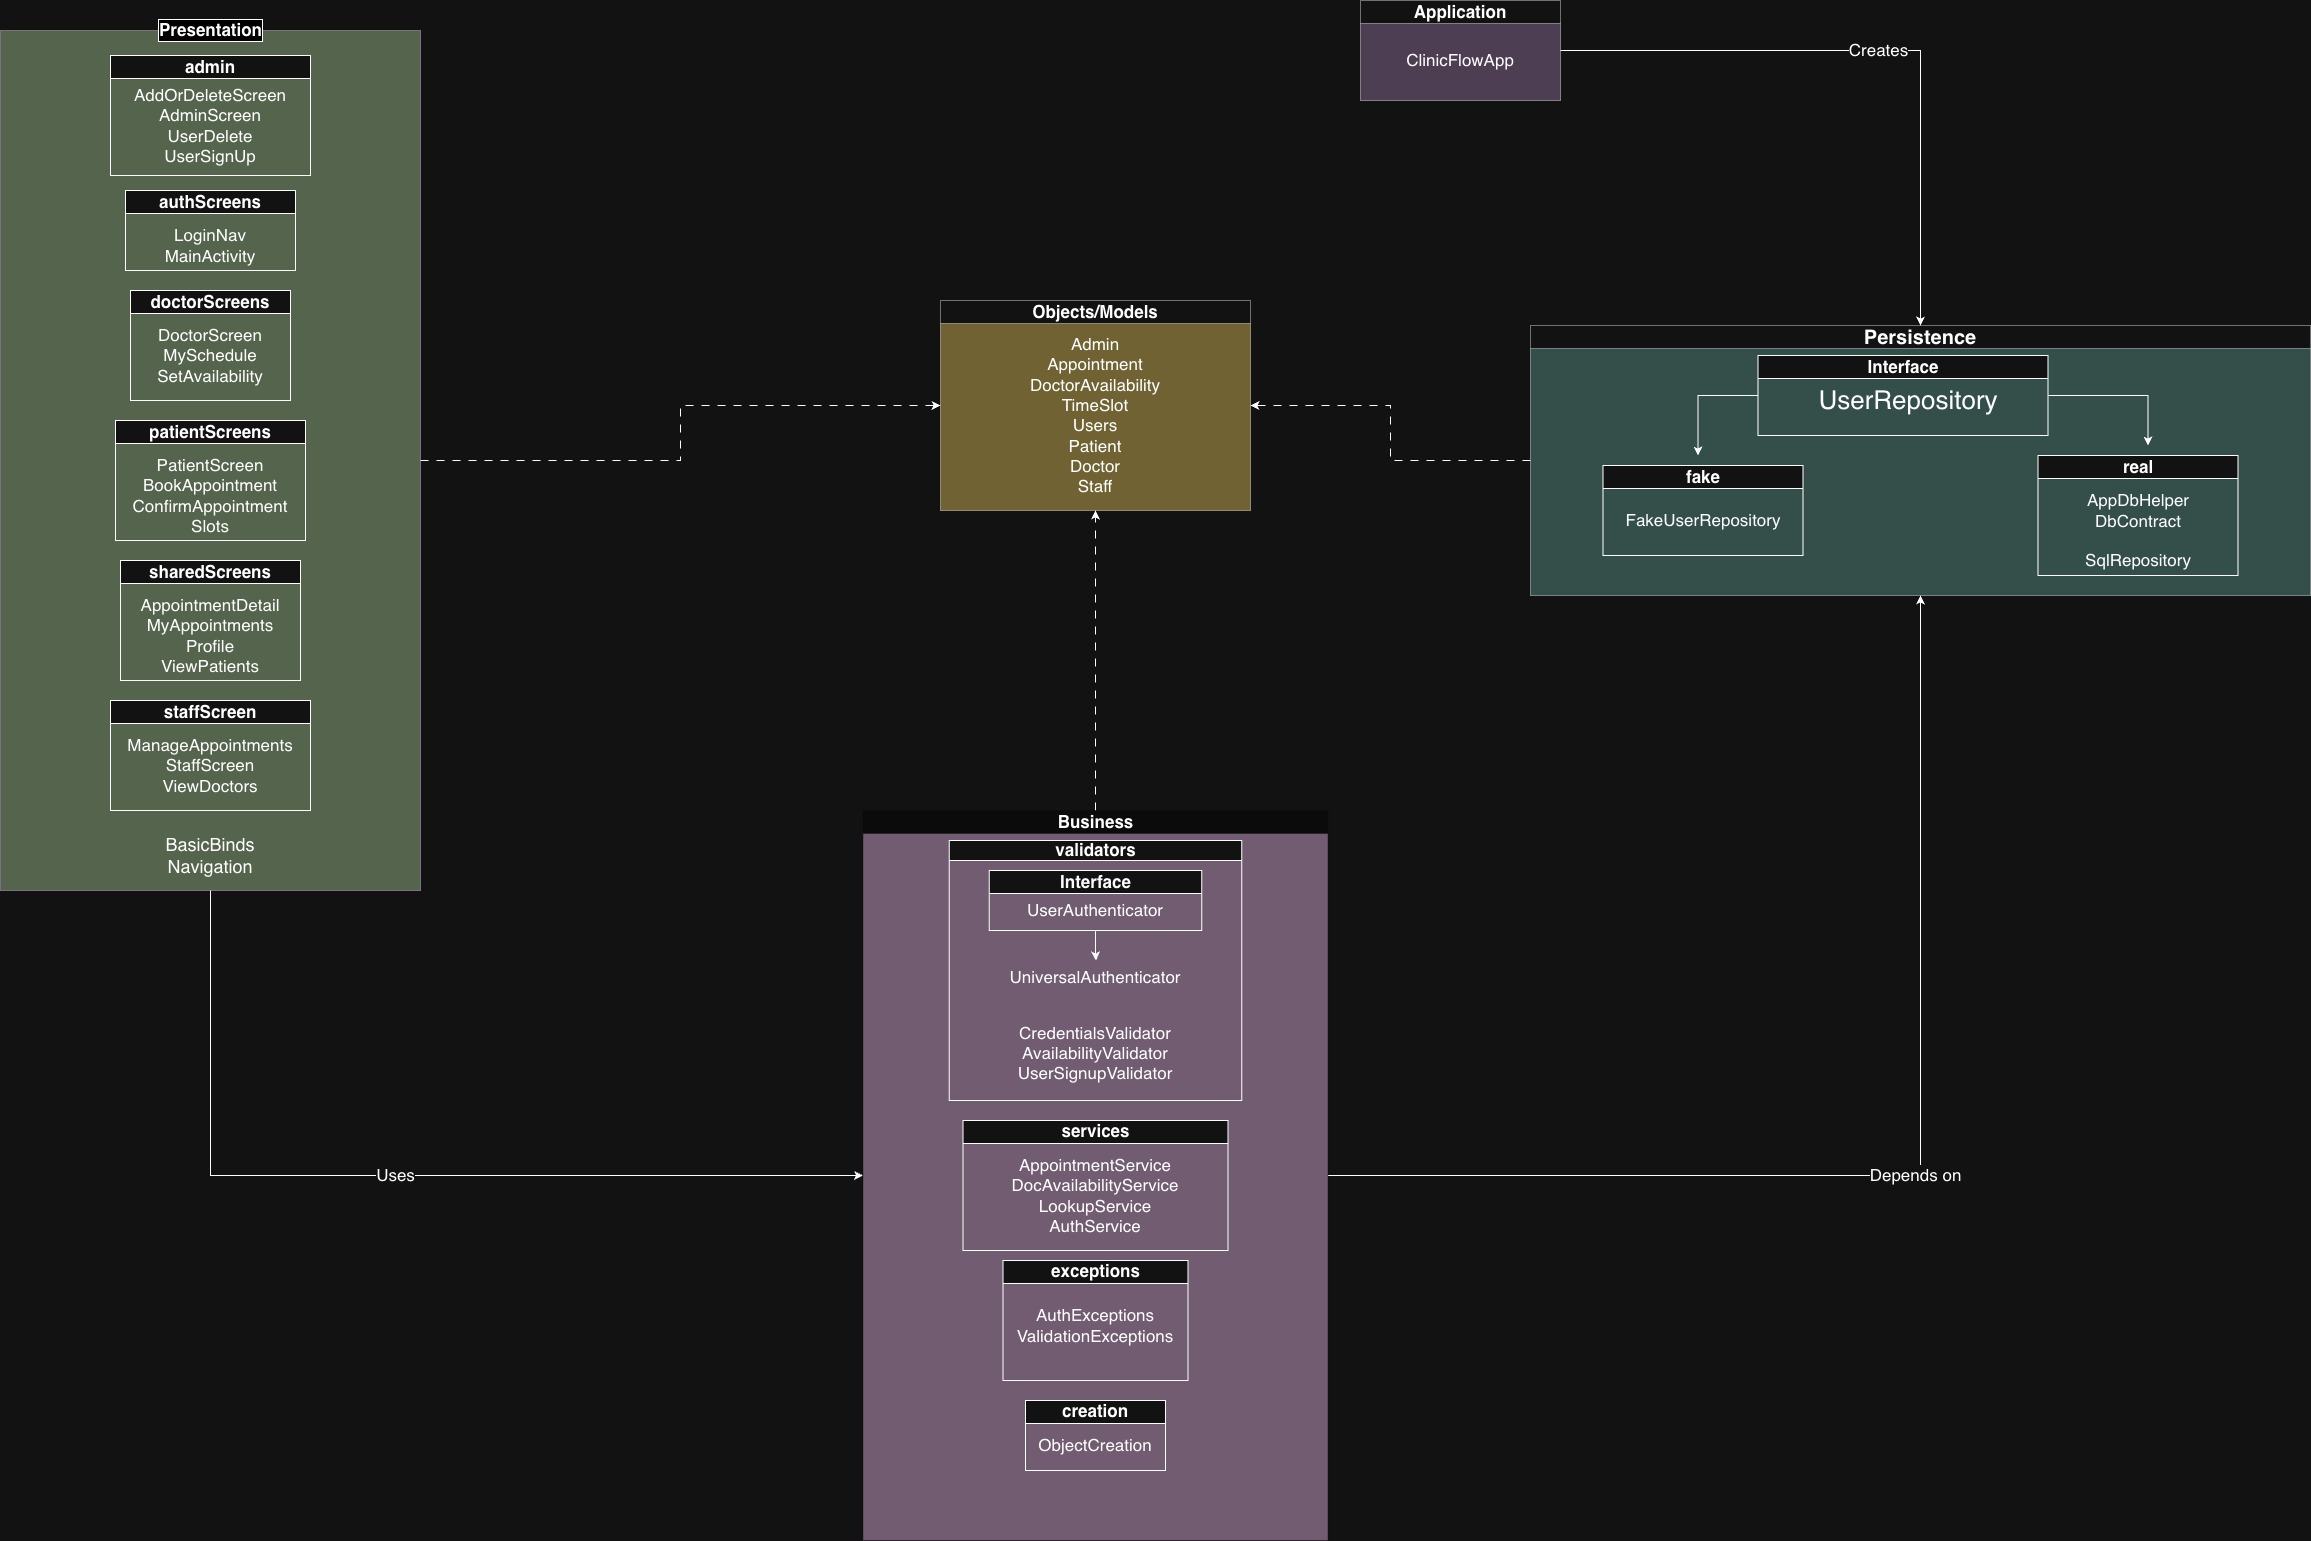
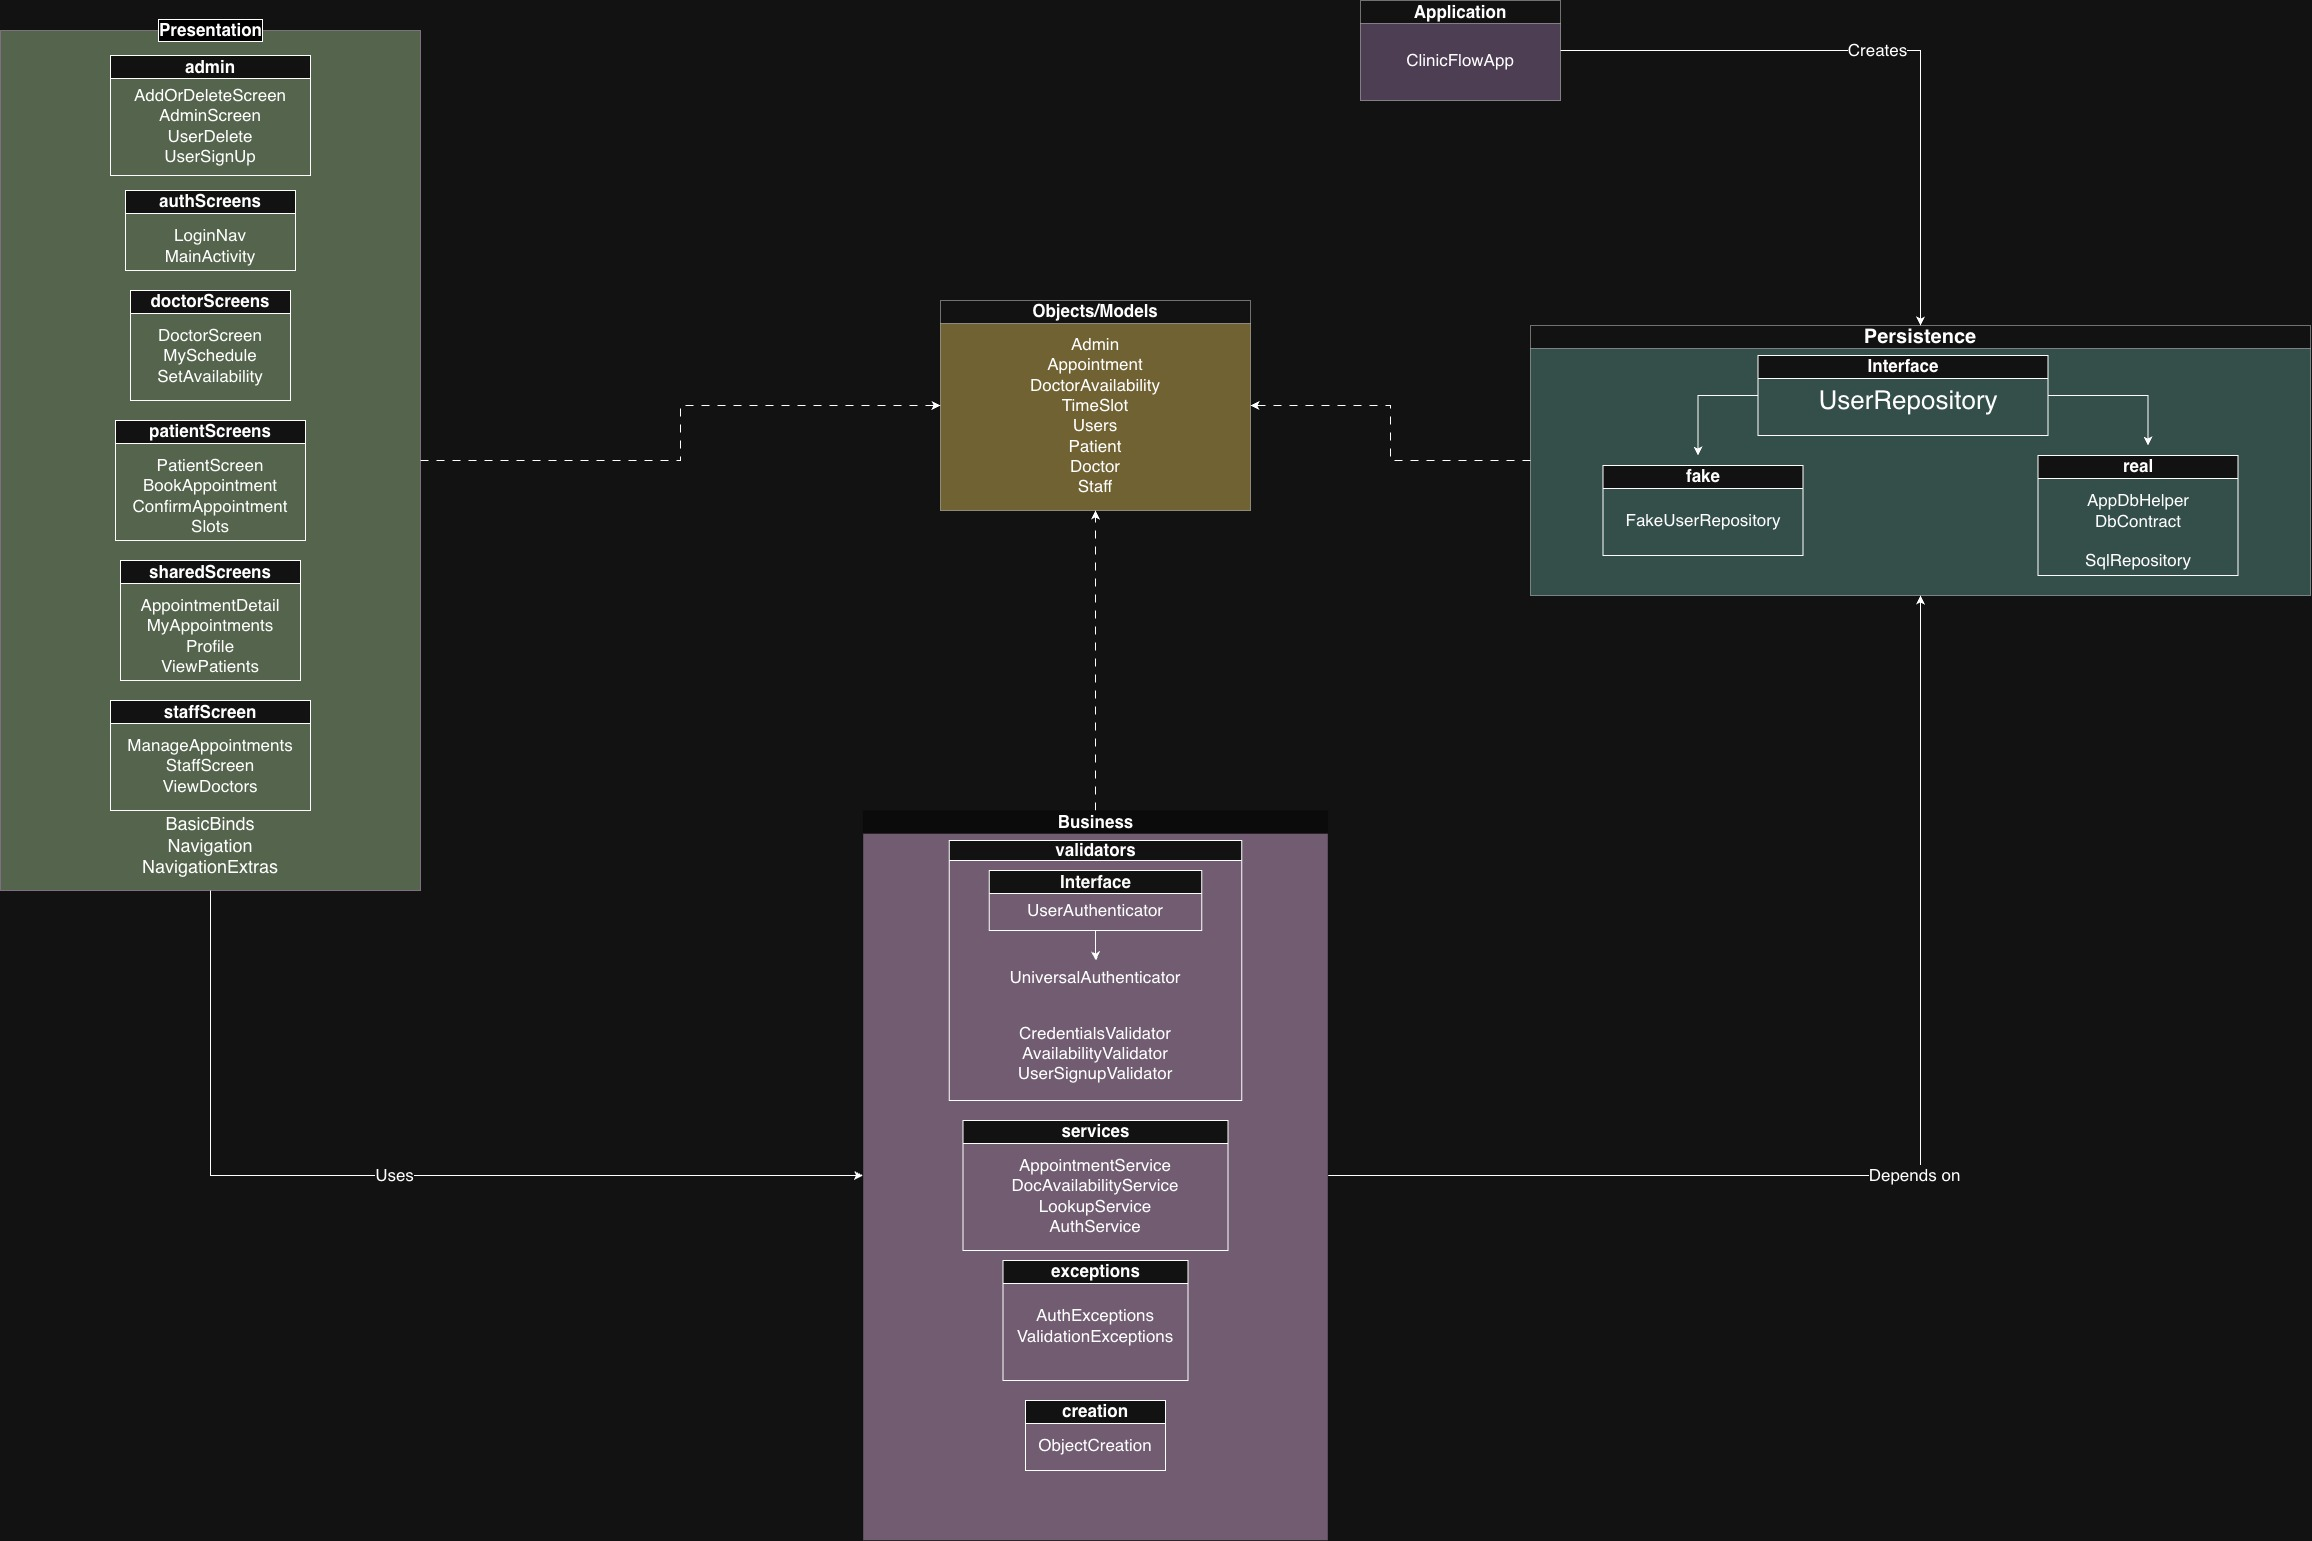
Minor changes to architecture

diff --git a/Docs/Architecture.md b/Docs/Architecture.md
@@ -31,12 +31,15 @@
     - **adapters**
         - `AppointmentAdapter`, `TimeSlotAdapter`
 - **Files Not in Subpackages**
-    - `Navigation`, `BasicBinds`
+    - `Navigation`
+    - `BasicBinds`
+    - `NavigationExtras`
 
 **How it works**
 - Any Activity that needs can retrieve any shared service from ClinicFlowApp that they need.
 - When an Activity needs to use business logic, it calls the necessary method through that shared service it retrieved from ClinicFlowApp
-- Navigation assists in navigation from one screen to another
+- Navigation assists in navigation from one activity to another
+- NavigationExtras houses the Intent extra keys used for passing data between activities
 - BasicBinds binds the logout, back, and profile buttons to their respective IDs and then sets the onClickListeners for them. Only screens that have all 3 of these buttons use this
 
 ---
@@ -103,7 +106,6 @@
 - `presentation` → `business`
 - `business` → `persistence` (depends on `UserRepository` interface)
 - `FakeUserRepository` → implements `UserRepository`
-- `RealUserRepository` → implements `UserRepository`
 - `presentation`, `business`, `persistence` → use `models`
 - `ClinicFlowApp` → provides shared services instead of direct access to persistence layer
 ---
